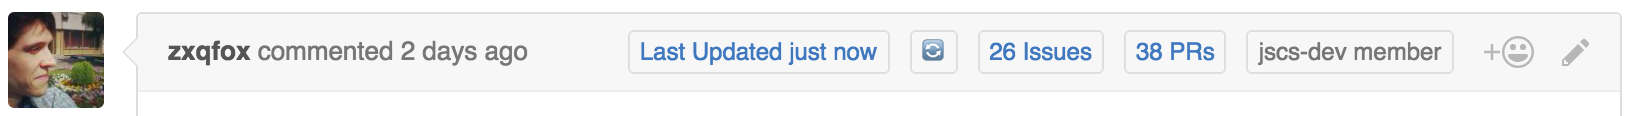
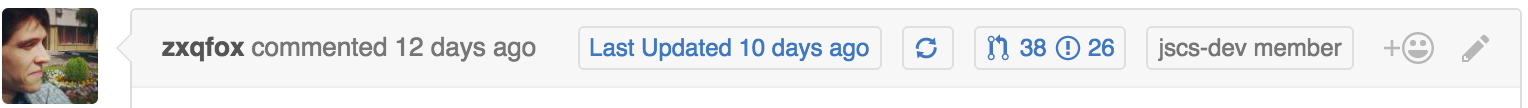
update pictures, remove 'in this repo' temporarily

Changed region(s): [[0.0, 0.0556, 1.0, 1.0], [0.0923, 0.3056, 0.9535, 0.5833], [0.0615, 0.6111, 0.0923, 0.6389]]

diff --git a/src/content.js b/src/content.js
@@ -100,7 +100,7 @@ function appendPRText(currentNum, repoInfo) {
     if (firstPrNumber === +currentNum) {
       prText = "First PR";
       if (prs > 1) {
-        prText += ` out of ${prs} (in this repo)`;
+        prText += ` out of ${prs}`;
       }
     }
     repoInfo.prText = prText;
@@ -111,7 +111,7 @@ function appendPRText(currentNum, repoInfo) {
     if (firstIssueNumber === +currentNum) {
       issueText = "First Issue";
       if (issues > 1) {
-        issueText += ` out of ${issues} (in this repo)`;
+        issueText += ` out of ${issues}`;
       }
     }
     repoInfo.issueText = issueText;

diff --git a/README.md b/README.md
@@ -1,13 +1,10 @@
 # Contributors on Github
 
-> Original idea was to show if it's a contributors first PR.
-> Now it shows # of Issues/PRs to the repo.
+> The original idea was to show if it's a contributors first PR on the pull request page such as `https://github.com/babel/babel/pull/3376`.
 
-> It adds some info to any urls that look like `https://github.com/babel/babel/pull/3376`
+![https://github.com/babel/babel/pull/3283](firstpr.gif)
 
-![](firstpr.gif)
-
-> Feel free to post suggestions and PRs (and an opportunity for me to see a [First PR] for this repo :smile:).
+> Feel free to post suggestions and PRs (it's an opportunity for me to use the extension myself and see a [First PR] for this repo too :smile:).
 
 #### Usage
 
@@ -33,6 +30,8 @@ If necessary, you may want to create or get a "access token" that uses the `publ
  
 #### Install
 
+> I would recommend install locally to try new features first (it's easy to update/revert/modify yourself).
+
 - [Chrome extension](https://chrome.google.com/webstore/detail/github-contributor-stats/cjbacdldhllelehomkmlniifaojgaeph?hl=en)
 
 #### Local Install
@@ -46,7 +45,9 @@ If necessary, you may want to create or get a "access token" that uses the `publ
 
 Now try it out!
 
-Used https://github.com/GoogleChrome/chrome-app-samples/tree/master/samples/github-auth, https://github.com/sindresorhus/notifier-for-github-chrome for reference.
+References
+- https://github.com/GoogleChrome/chrome-app-samples/tree/master/samples/github-auth
+- https://github.com/sindresorhus/notifier-for-github-chrome
 
 #### LICENSE
 MIT
